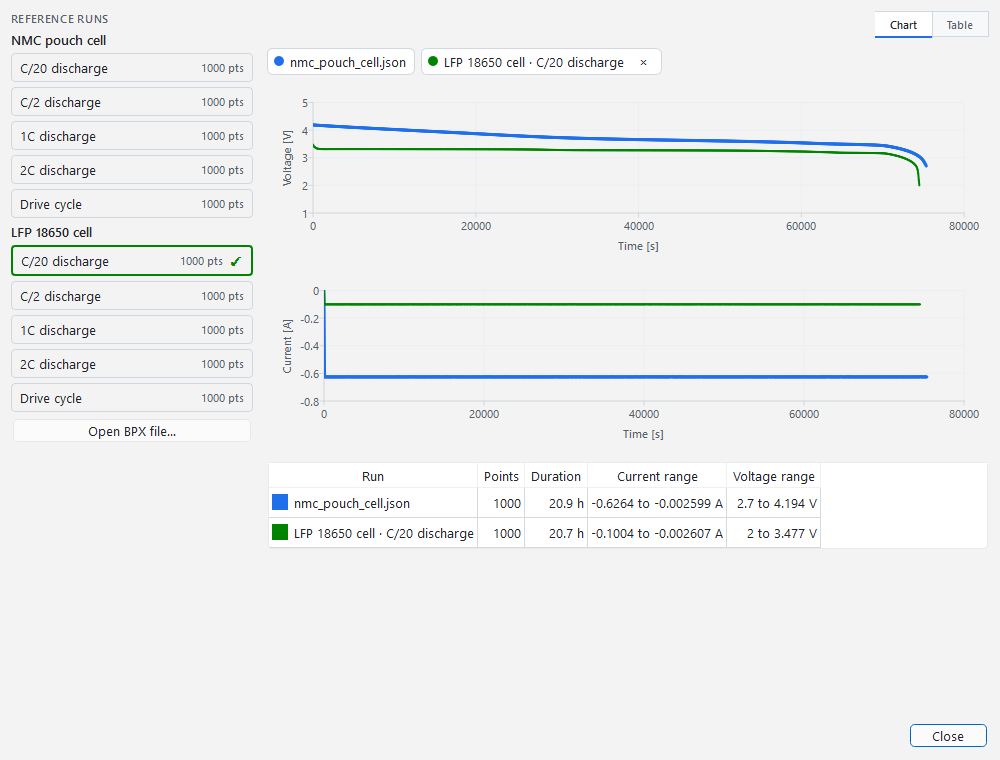
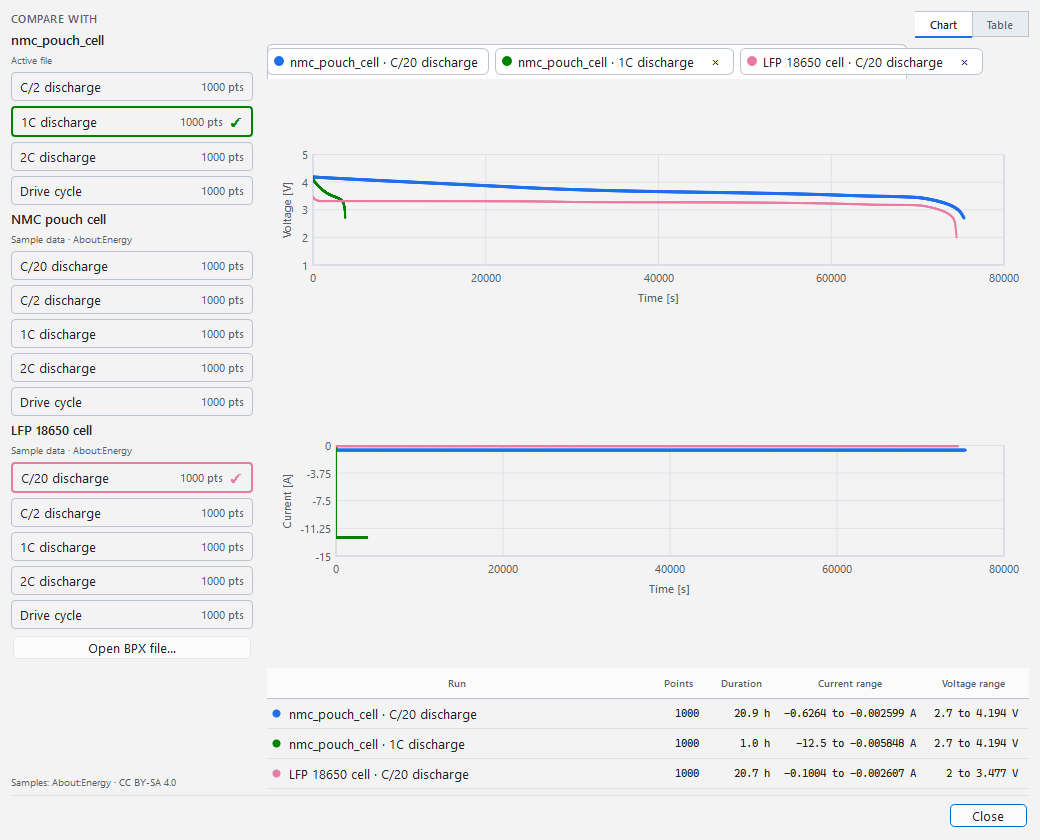
docs: update overview for the validation rework

diff --git a/docs/architecture.md b/docs/architecture.md
@@ -245,6 +245,28 @@ navigate to locations rather than filtering or replacing the hierarchy.
   (typed: scalar, text, boolean, table or series); actions on an existing row
   (rename, duplicate, move, remove) live in its context menu. A collapsed
   `▸ N fields to add` line lists schema-expected fields still absent.
+  List-valued tooltips summarise ("series · 12 values"), never dump JSON.
+- **Validation runs** — one editor (`ExperimentCard`) per run: a multi-column
+  grid in schema order beneath a live **preview band** — Voltage and Current
+  (and Temperature once that column exists) against Time, drawn from the
+  current draft through a ~120 ms coalescing timer, hidden while the empty
+  run's CSV dropzone shows (the dropzone itself gains a dashed accent
+  affordance only while a usable file drag is over it). The parameter list
+  mirrors the grid's schema order: a missing schema array renders as a muted
+  "not in file" placeholder row (clicking focuses its column, writing
+  nothing; a reference ghost row for the same key wins), custom keys follow
+  in file order and alone keep Move up/down. The bare `Validation` node
+  lists one navigable row per run — its count equals those rows — and its
+  "+ Add" opens the experiment-name popup. **Compare…** opens a modal,
+  stateless viewer titled `Compare · <run>`: a "Compare with" rail of the
+  active document's other runs (committed values, the compared run
+  excluded), the bundled About:Energy sample runs, and any file opened into
+  the dialog — every group under an origin caption, the samples' CC BY-SA
+  4.0 provenance stated at the rail foot. Charts overlay up to four picked
+  runs plus the card's own draft (labelled `<stem> · <run>`, never "You");
+  an explicit run selector drives Table mode; chips are legend and removal
+  only. The word "reference" never appears in this dialog — it belongs to
+  the pinned-reference system.
 - **Inspector** — the selected parameter's work surface, one scrolling page:
   the editing card for its kind on top (tables plot a live chart preview
   beside the grid), then an **Issues** section that appears only while the
@@ -298,7 +320,13 @@ navigate to locations rather than filtering or replacing the hierarchy.
   simply no ＋ left to click. Each card offers a route out so the page is
   never a dead end ("Edit its parameters ▸", "N errors · why? ▸", "N values
   differ ▸"). A workspace whose files have moved opens anyway, with a banner
-  naming each one and offering Locate…/Remove.
+  naming each one and offering Locate…/Remove. Provenance stays visible
+  after pinning: a slot's tooltip names its origin (the file's path, or
+  "Reference library"), and the expanded record's From row either shows the
+  path with its captured disk facts or names the Reference library and
+  expands the derived-from-PyBaMM provenance statement; the record's Read
+  as / Checked rows expand their consequence sentences (YAML comments,
+  legacy conversion) exactly like the main document's record.
 - **The start surface** — with no main open, the Main slot carries every way
   to fill it inline: "Open a file…", the recent files that still exist
   beneath it (the same act, pre-filled), then the New-document models each
